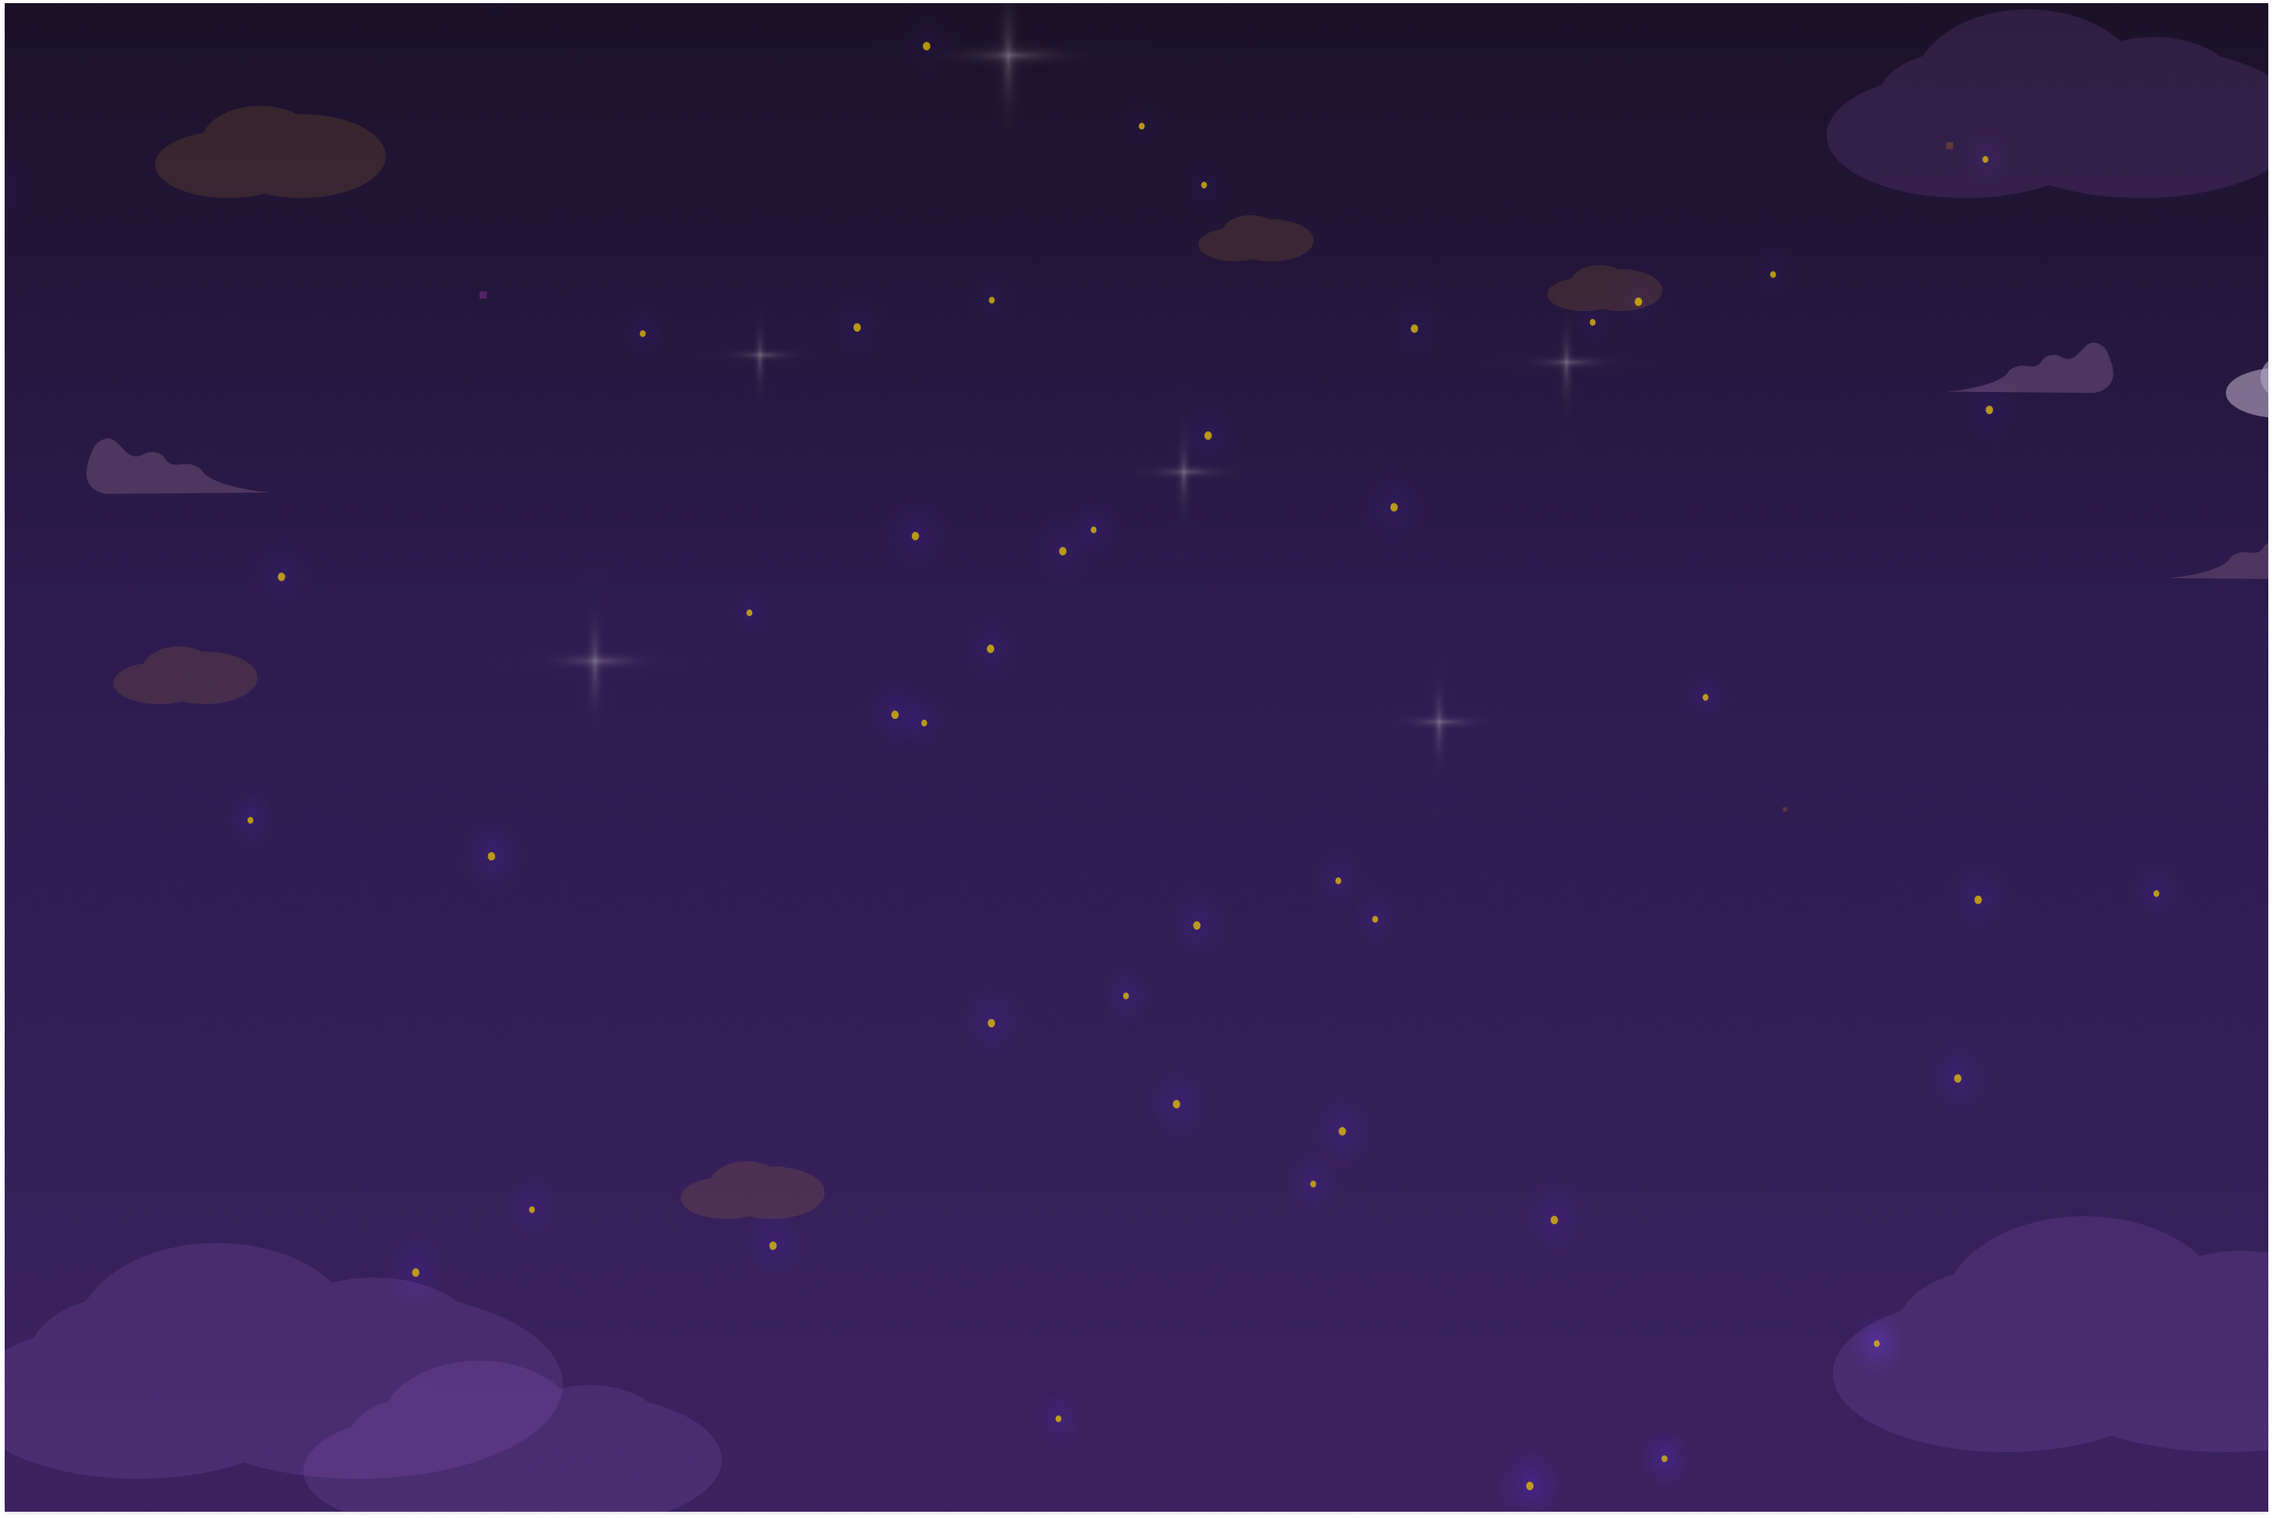
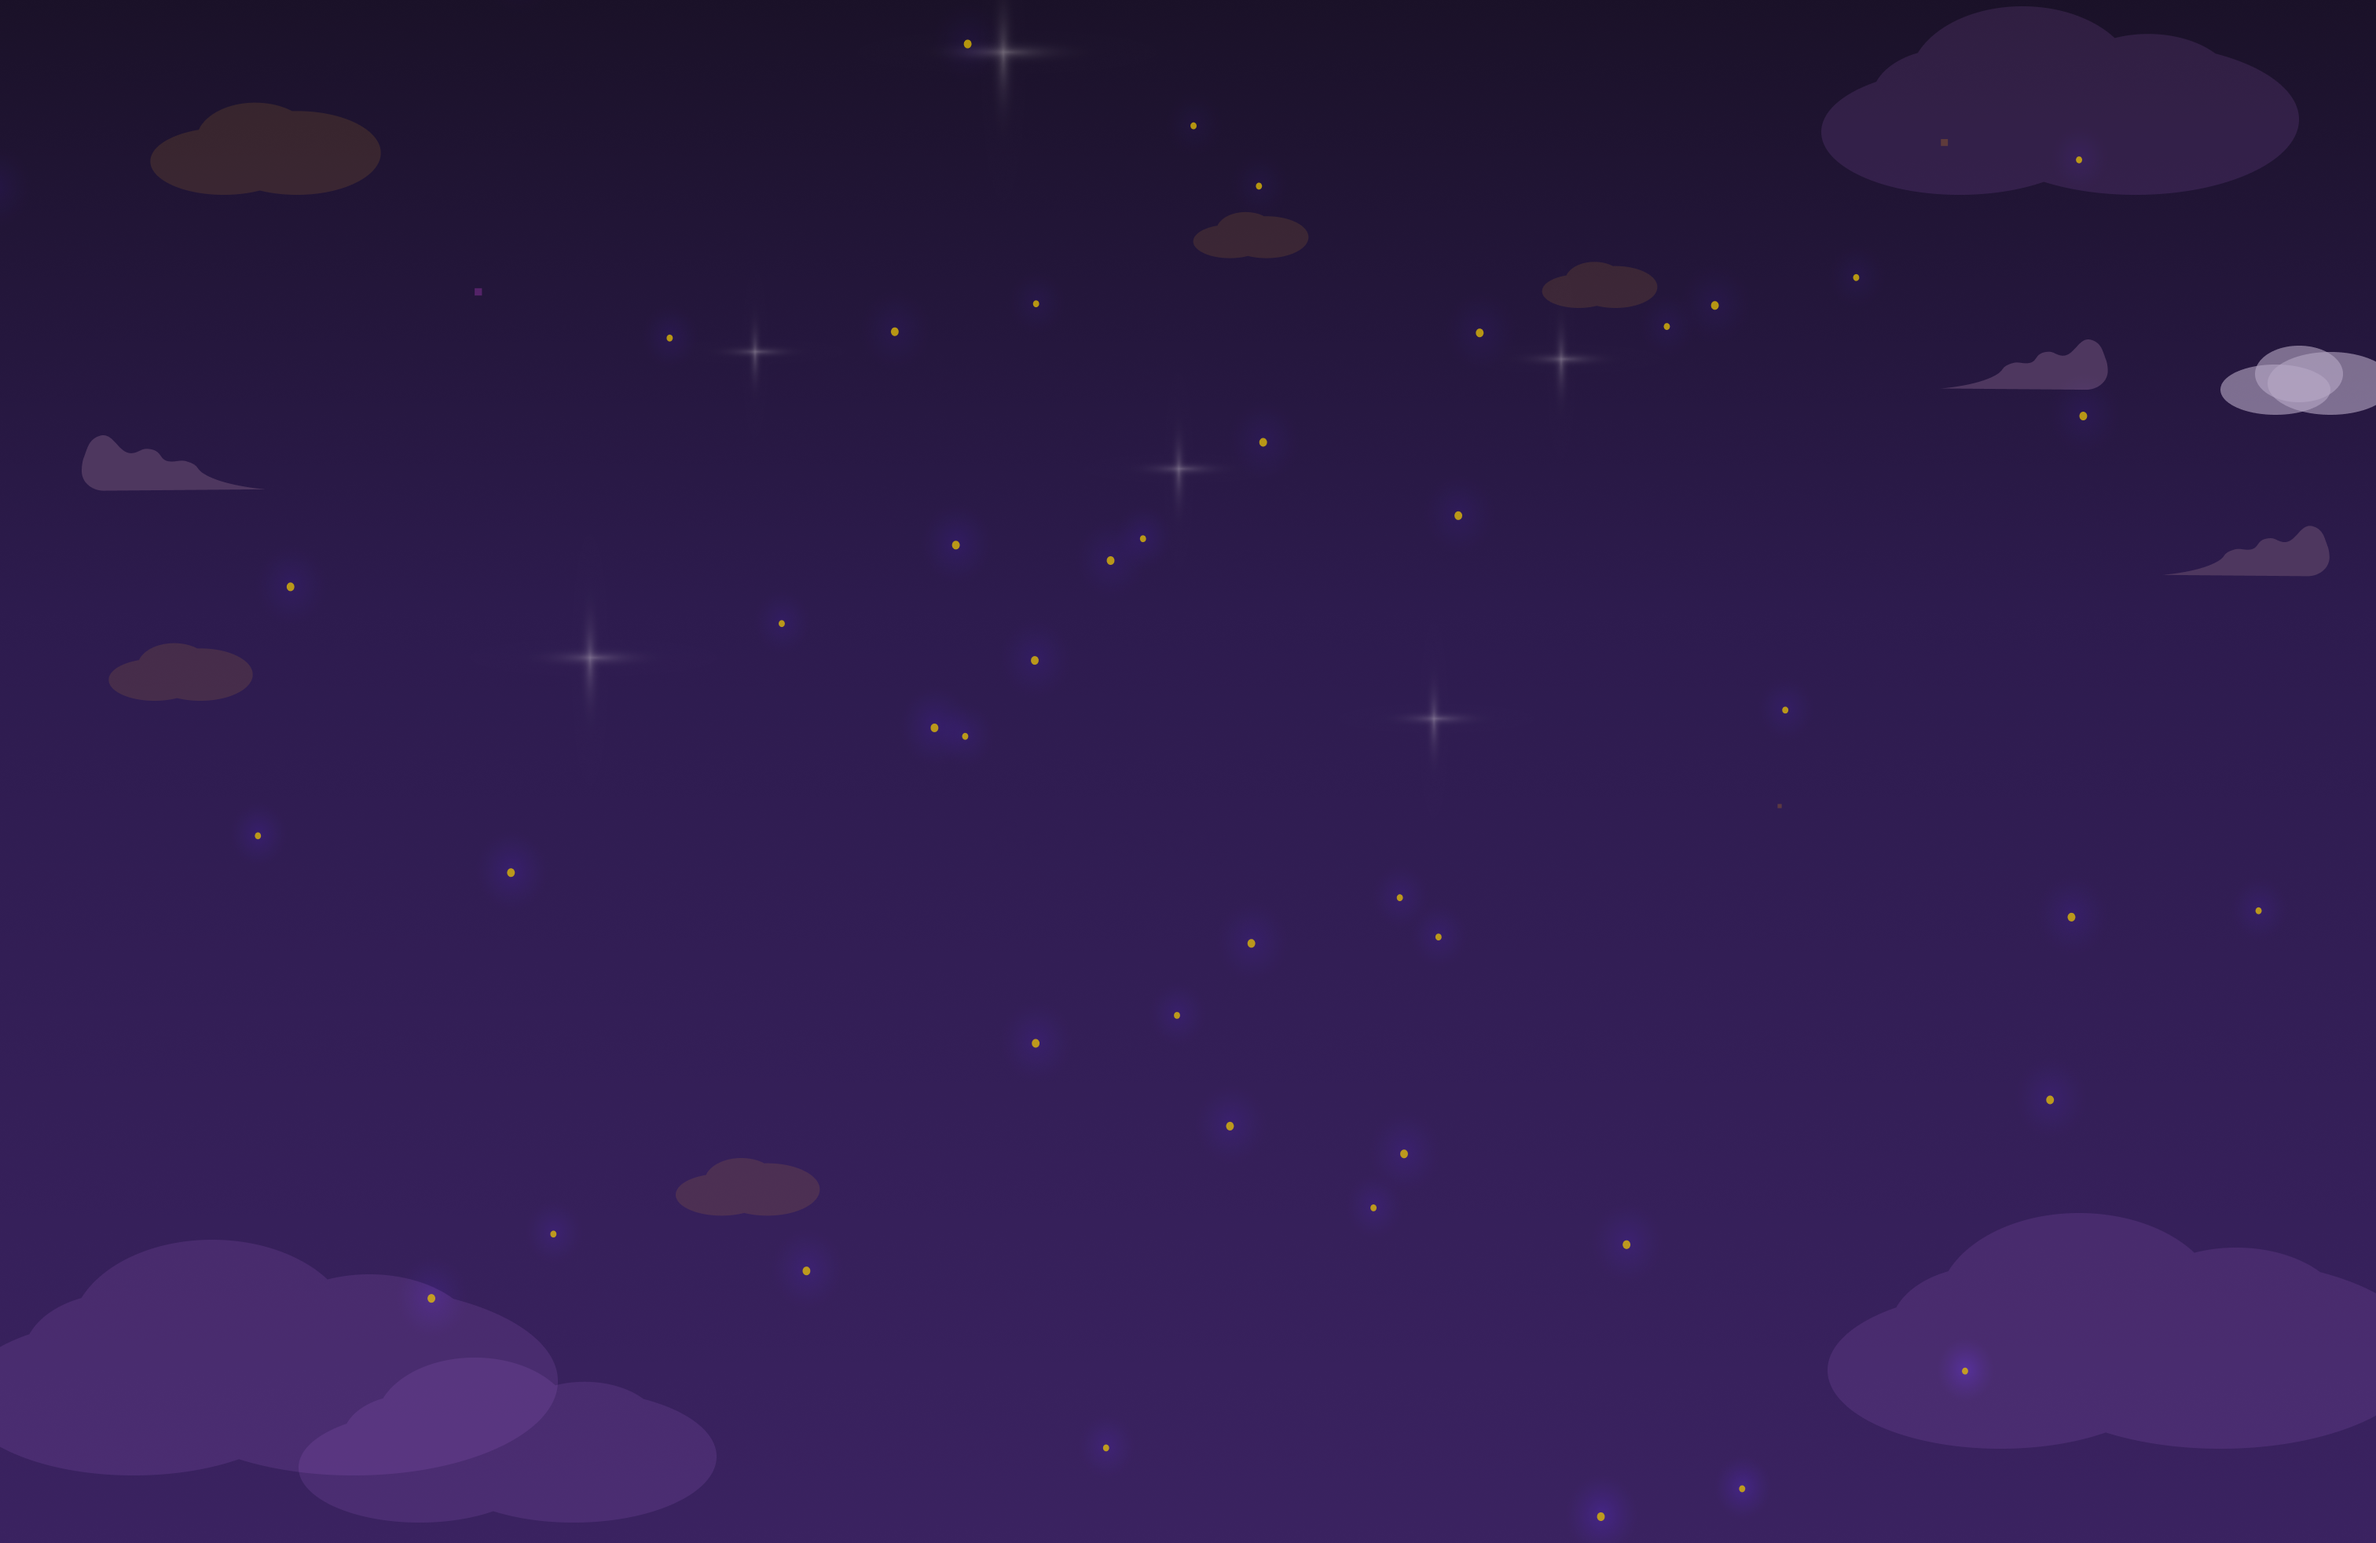
code: updated web UI

diff --git a/lib/ui/screens/settings_page.dart b/lib/ui/screens/settings_page.dart
@@ -69,6 +69,7 @@ class SettingsPage extends StatelessWidget {
                           ),
                         ),
                       ),
+                      SizedBox(height: 8),
                       Text(
                         'Set your breathing pace',
                         style: Theme.of(context).textTheme.headlineMedium
@@ -192,7 +193,7 @@ class SettingsPage extends StatelessWidget {
                             ),
 
                             const SizedBox(height: 24),
-                            const Divider(),
+                            Divider(color: Colors.grey.withAlpha(100)),
                             const SizedBox(height: 16),
 
                             // Advanced timing logic
@@ -290,47 +291,52 @@ class SettingsPage extends StatelessWidget {
                             ),
 
                             const SizedBox(height: 16),
-                            const Divider(),
+                            Divider(color: Colors.grey.withAlpha(100)),
                             const SizedBox(height: 16),
 
                             // Sound Toggle
-                            Row(
-                              mainAxisAlignment: MainAxisAlignment.spaceBetween,
-                              children: [
-                                Column(
-                                  crossAxisAlignment: CrossAxisAlignment.start,
-                                  children: [
-                                    Text(
-                                      'Sound',
-                                      style: Theme.of(context)
-                                          .textTheme
-                                          .titleMedium
-                                          ?.copyWith(
-                                            fontWeight: FontWeight.bold,
-                                          ),
-                                    ),
-                                    Text(
-                                      'Gentle chime between phases',
-                                      style: Theme.of(
-                                        context,
-                                      ).textTheme.bodyMedium,
-                                    ),
-                                  ],
-                                ),
-                                Switch(
-                                  value: prefs.soundEnabled,
-                                  activeThumbColor: Theme.of(
-                                    context,
-                                  ).colorScheme.primary,
-                                  onChanged: (val) {
-                                    context.read<SettingsBloc>().add(
-                                      UpdateSettings(
-                                        prefs.copyWith(soundEnabled: val),
+                            Padding(
+                              padding: EdgeInsets.only(bottom: 8),
+                              child: Row(
+                                mainAxisAlignment:
+                                    MainAxisAlignment.spaceBetween,
+                                children: [
+                                  Column(
+                                    crossAxisAlignment:
+                                        CrossAxisAlignment.start,
+                                    children: [
+                                      Text(
+                                        'Sound',
+                                        style: Theme.of(context)
+                                            .textTheme
+                                            .titleMedium
+                                            ?.copyWith(
+                                              fontWeight: FontWeight.bold,
+                                            ),
                                       ),
-                                    );
-                                  },
-                                ),
-                              ],
+                                      Text(
+                                        'Gentle chime between phases',
+                                        style: Theme.of(
+                                          context,
+                                        ).textTheme.bodyMedium,
+                                      ),
+                                    ],
+                                  ),
+                                  Switch(
+                                    value: prefs.soundEnabled,
+                                    activeThumbColor: Theme.of(
+                                      context,
+                                    ).colorScheme.primary,
+                                    onChanged: (val) {
+                                      context.read<SettingsBloc>().add(
+                                        UpdateSettings(
+                                          prefs.copyWith(soundEnabled: val),
+                                        ),
+                                      );
+                                    },
+                                  ),
+                                ],
+                              ),
                             ),
                           ],
                         ),
@@ -383,9 +389,7 @@ class SettingsPage extends StatelessWidget {
                             width: 20,
                             height: 20,
                             colorFilter: ColorFilter.mode(
-                              Theme.of(context).brightness != Brightness.light
-                                  ? Colors.black
-                                  : Colors.white,
+                              Colors.white,
                               BlendMode.srcIn,
                             ),
                           ),

diff --git a/lib/main.dart b/lib/main.dart
@@ -11,6 +11,7 @@ void main() async {
   WidgetsFlutterBinding.ensureInitialized();
   await Hive.initFlutter();
   Hive.registerAdapter(BreathingPreferencesAdapter());
+  await Hive.openBox('appSettings');
 
   runApp(const MyApp());
 }
@@ -26,8 +27,17 @@ class MyApp extends StatefulWidget {
 }
 
 class MyAppState extends State<MyApp> {
-  ThemeMode _themeMode = ThemeMode.light;
+  late ThemeMode _themeMode;
   bool _imagesPreloaded = false;
+  late Box _appSettingsBox;
+
+  @override
+  void initState() {
+    super.initState();
+    _appSettingsBox = Hive.box('appSettings');
+    final isDark = _appSettingsBox.get('isDarkMode', defaultValue: false);
+    _themeMode = isDark ? ThemeMode.dark : ThemeMode.light;
+  }
 
   @override
   void didChangeDependencies() {
@@ -47,6 +57,7 @@ class MyAppState extends State<MyApp> {
           ? ThemeMode.dark
           : ThemeMode.light;
     });
+    _appSettingsBox.put('isDarkMode', _themeMode == ThemeMode.dark);
   }
 
   @override

diff --git a/lib/ui/widgets/background_wrapper.dart b/lib/ui/widgets/background_wrapper.dart
@@ -22,8 +22,14 @@ class BackgroundWrapper extends StatelessWidget {
     }
 
     return Container(
+      padding: EdgeInsets.zero,
+      margin: EdgeInsets.zero,
       decoration: BoxDecoration(
-        image: DecorationImage(image: AssetImage(bgImage), fit: BoxFit.cover),
+        image: DecorationImage(
+          image: AssetImage(bgImage),
+          fit: BoxFit.fitWidth,
+          alignment: Alignment.center,
+        ),
       ),
       child: child,
     );
